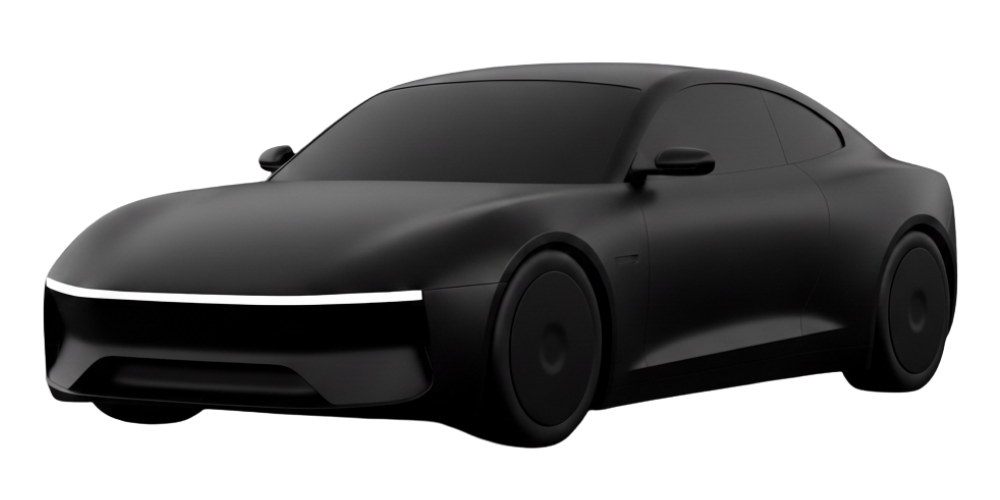
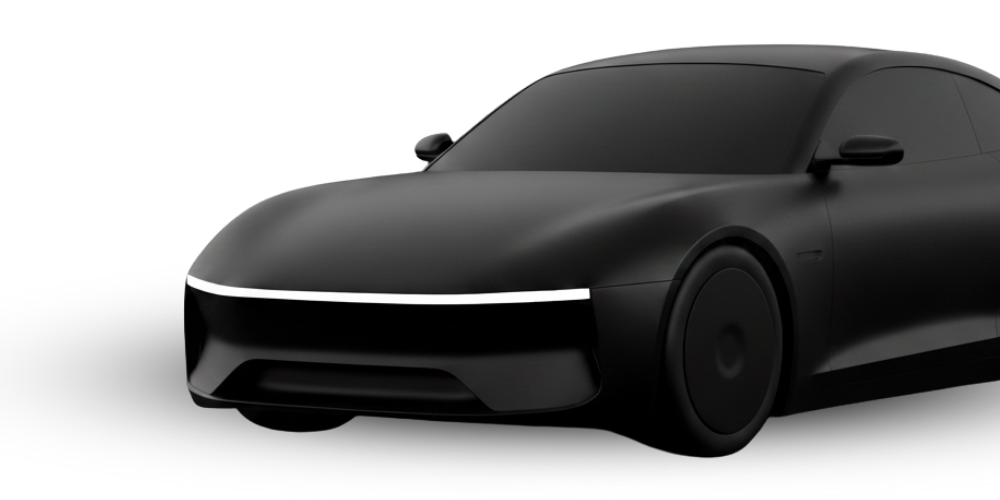
Changes

diff --git a/src/components/AnimatedCar.tsx b/src/components/AnimatedCar.tsx
@@ -7,7 +7,6 @@ interface AnimatedCarProps {
 
 export const AnimatedCar = ({ onAnimationComplete }: AnimatedCarProps) => {
   const [isVisible, setIsVisible] = useState(false);
-  const [showBeam, setShowBeam] = useState(false);
 
   useEffect(() => {
     // Start car animation after a brief delay
@@ -15,46 +14,30 @@ export const AnimatedCar = ({ onAnimationComplete }: AnimatedCarProps) => {
       setIsVisible(true);
     }, 100);
 
-    // Show light beam after car arrives
-    const beamTimer = setTimeout(() => {
-      setShowBeam(true);
-    }, 1200);
-
     // Notify when animation completes
     const completeTimer = setTimeout(() => {
       onAnimationComplete?.();
-    }, 2000);
+    }, 1500);
 
     return () => {
       clearTimeout(carTimer);
-      clearTimeout(beamTimer);
       clearTimeout(completeTimer);
     };
   }, [onAnimationComplete]);
 
   return (
-    <div className="relative w-full h-48 overflow-hidden">
-      {/* Light beam from headlights */}
-      <div
-        className={`absolute left-0 top-1/2 -translate-y-1/2 h-[2px] bg-gradient-to-l from-white via-white/80 to-transparent transition-all duration-1000 ease-out ${
-          showBeam ? "w-full opacity-100" : "w-0 opacity-0"
-        }`}
-        style={{
-          boxShadow: showBeam ? "0 0 20px 4px rgba(255, 255, 255, 0.5), 0 0 40px 8px rgba(255, 255, 255, 0.3)" : "none",
-        }}
-      />
-      
-      {/* Car image */}
+    <div className="relative w-full overflow-hidden">
+      {/* Car image - slides in from right */}
       <img
         src={carImage}
         alt="Car"
-        className={`absolute right-0 top-1/2 -translate-y-1/2 h-40 w-auto object-contain transition-all duration-[1.2s] ease-out ${
+        className={`w-full h-auto object-contain transition-all duration-[1.2s] ease-out ${
           isVisible 
-            ? "translate-x-[50%] opacity-100" 
-            : "translate-x-[150%] opacity-0"
+            ? "translate-x-0 opacity-100" 
+            : "translate-x-full opacity-0"
         }`}
         style={{
-          filter: "drop-shadow(0 10px 30px rgba(0, 0, 0, 0.3))"
+          filter: "drop-shadow(0 10px 30px rgba(0, 0, 0, 0.2))"
         }}
       />
     </div>

diff --git a/src/pages/Welcome.tsx b/src/pages/Welcome.tsx
@@ -57,9 +57,9 @@ const Welcome = () => {
           <AnimatedCar />
         </div>
 
-        {/* Logo - appears with light beam effect */}
+        {/* Logo */}
         <div className={`flex flex-col items-center gap-4 transition-all duration-700 ease-out ${showLogo ? 'opacity-100 translate-y-0' : 'opacity-0 translate-y-4'}`}>
-          <h1 className="text-5xl font-bold font-logo tracking-tight">
+          <h1 className="text-6xl font-bold font-logo tracking-tight">
             <span className="text-primary">my</span>
             <span className="text-foreground">auto</span>
           </h1>
